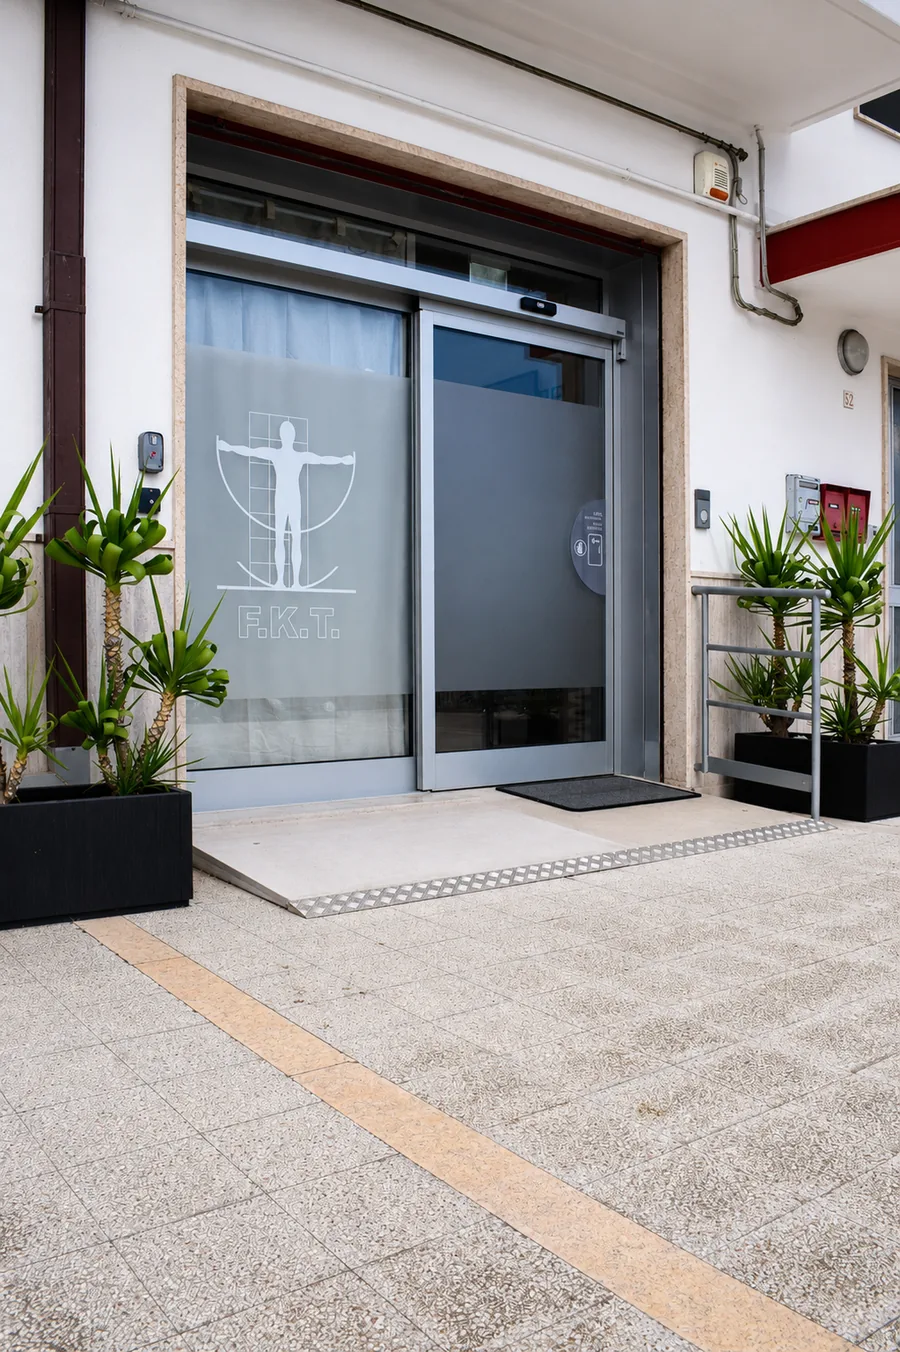
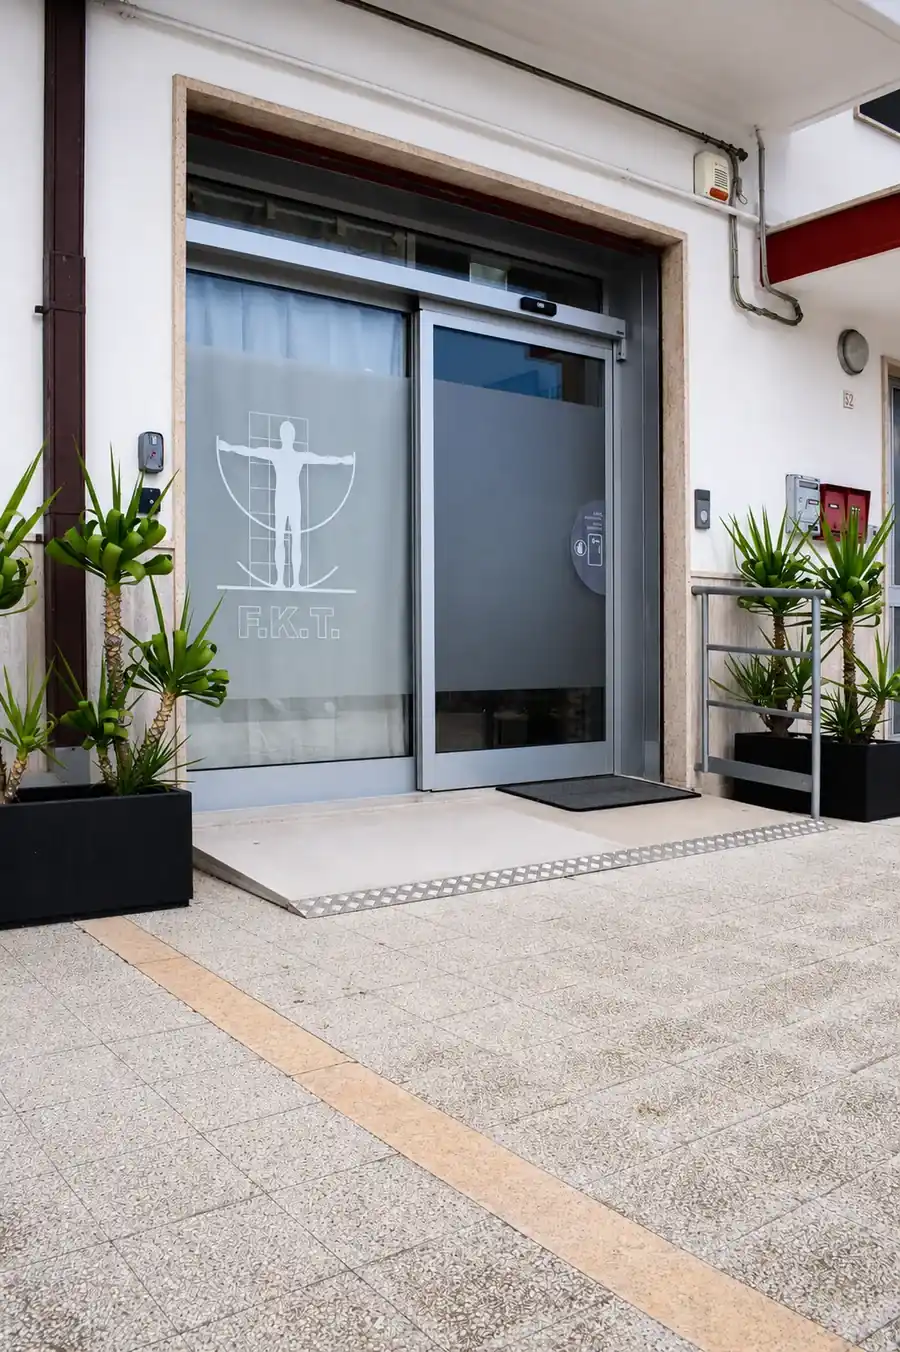
Performance: immagini ottimizzate, font non bloccanti, mappa piu reattiva
- Hero: JPEG 517KB -> WebP 31KB, srcset mobile 11KB, fetchPriority high
- Loghi convenzioni: PNG 95-556KB -> WebP ~9-27KB, lazy loading
- sede-ingresso ricompresso 212->125KB
- Font Inter/Manrope: da @import CSS (render-blocking) a link+preconnect in HTML
- Preconnect Google Maps, iframe eager, placeholder ghiaccio anti-saltellamento
- loading=lazy + decoding=async su tutte le immagini below-fold, width/height anti-CLS
- Fix: html lang=it

diff --git a/src/pages/Convenzioni.tsx b/src/pages/Convenzioni.tsx
@@ -33,7 +33,7 @@ const ACCESSO: Accesso[] = [
     titolo: "Servizio Sanitario Nazionale",
     sottotitolo: "Prestazioni convenzionate con il SSN su prescrizione medica.",
     icona: Landmark,
-    logo: "/assets/logo-ssn-trasparente.png",
+    logo: "/assets/logo-ssn-trasparente-opt.webp",
     logoAlt: "Logo del Servizio Sanitario Nazionale",
     paragrafi: [
       "Questa modalità riguarda i pazienti in possesso di una prescrizione medica per prestazioni erogabili in convenzione. Prima della prenotazione è necessario verificare che l'indicazione sia completa e compatibile con il percorso richiesto.",
@@ -54,7 +54,7 @@ const ACCESSO: Accesso[] = [
     titolo: "INAIL",
     sottotitolo: "Riabilitazione dopo un infortunio sul lavoro.",
     icona: BriefcaseMedical,
-    logo: "/assets/logo-inail-trim.png",
+    logo: "/assets/logo-inail-trim-opt.webp",
     logoAlt: "Logo INAIL",
     paragrafi: [
       "Il percorso INAIL riguarda i lavoratori che necessitano di trattamenti riabilitativi collegati a un infortunio sul lavoro. L'obiettivo è favorire il recupero funzionale e accompagnare il ritorno alle attività quotidiane e lavorative.",
@@ -138,6 +138,7 @@ export default function Convenzioni() {
           src="/assets/vitruviano-servizi-integrale.webp"
           alt=""
           aria-hidden="true"
+          decoding="async"
           className="pointer-events-none absolute right-4 top-1/2 w-[220px] -translate-y-1/2 opacity-60 sm:right-8 sm:w-[300px] lg:right-12 lg:w-[400px] lg:opacity-70"
         />
         <div className="container-fkt relative py-16 sm:py-20">
@@ -168,6 +169,7 @@ export default function Convenzioni() {
               title={c.nome}
               className="h-12 sm:h-14 w-auto max-w-[180px] object-contain opacity-80 transition hover:opacity-100"
               loading="lazy"
+              decoding="async"
             />
           ))}
         </div>
@@ -180,6 +182,8 @@ export default function Convenzioni() {
           src="/assets/vitruviano-servizi-integrale.webp"
           alt=""
           aria-hidden="true"
+          loading="lazy"
+          decoding="async"
           className="pointer-events-none absolute left-4 top-1/2 hidden w-[180px] -translate-y-1/2 opacity-30 sm:left-8 sm:block sm:w-[260px] lg:left-12 lg:w-[340px] lg:opacity-40"
         />
         <div className="container-fkt py-16 sm:py-20">
@@ -225,6 +229,7 @@ export default function Convenzioni() {
                           alt={a.logoAlt}
                           className="max-h-10 max-w-[8rem] object-contain"
                           loading="lazy"
+                          decoding="async"
                         />
                       ) : (
                         <div className="flex h-12 w-12 items-center justify-center rounded-xl bg-white shadow-sm">
@@ -292,7 +297,7 @@ export default function Convenzioni() {
                     }`}
                   >
                     {a.logo ? (
-                      <img src={a.logo} alt={a.logoAlt} className="max-h-9 max-w-[6.5rem] object-contain" loading="lazy" />
+                      <img src={a.logo} alt={a.logoAlt} className="max-h-9 max-w-[6.5rem] object-contain" loading="lazy" decoding="async" />
                     ) : (
                       <span className="flex h-11 w-11 shrink-0 items-center justify-center rounded-xl bg-white shadow-sm">
                         <Icona className="h-5 w-5 text-azzurro" />

diff --git a/src/pages/Home.tsx b/src/pages/Home.tsx
@@ -13,8 +13,14 @@ export default function Home() {
       <section className="relative overflow-hidden bg-ghiaccio">
         {/* foto trattamento: solo desktop */}
         <img
-          src="/assets/hero-trattamento-1.jpg"
+          src="/assets/hero-trattamento-1.webp"
+          srcSet="/assets/hero-trattamento-1-mobile.webp 768w, /assets/hero-trattamento-1.webp 1366w"
+          sizes="100vw"
           alt="Trattamento fisioterapico del rachide cervicale"
+          width="1366"
+          height="768"
+          fetchPriority="high"
+          decoding="async"
           className="absolute inset-0 hidden h-full w-full object-cover object-right sm:block"
         />
         {/* Overlay uniforme per leggibilità testo */}
@@ -100,6 +106,8 @@ export default function Home() {
                 <img
                   src={area.immagine}
                   alt={area.titolo}
+                  loading="lazy"
+                  decoding="async"
                   className="h-full w-full object-cover transition-transform duration-500 ease-out group-hover:scale-105"
                 />
               </div>
@@ -138,6 +146,8 @@ export default function Home() {
                 <img
                   src={c.logo}
                   alt={c.nome}
+                  loading="lazy"
+                  decoding="async"
                   className="max-h-10 max-w-[140px] object-contain"
                 />
               </div>

diff --git a/src/lib/site-data.ts b/src/lib/site-data.ts
@@ -38,14 +38,14 @@ export const NAV = [
 ] as const;
 
 export const CONVENZIONI = [
-  { nome: "SSN — Servizio Sanitario Nazionale", logo: "/assets/logo-ssn-trasparente.png" },
-  { nome: "INAIL", logo: "/assets/logo-inail-trim.png" },
-  { nome: "FASDAC", logo: "/assets/convenzioni/logo-fasdac.png" },
-  { nome: "Generali", logo: "/assets/convenzioni/logo-generali-hd.png" },
-  { nome: "Poste Welfare Servizi", logo: "/assets/convenzioni/logo-poste-hd.png" },
-  { nome: "AXA", logo: "/assets/convenzioni/logo-axa-hd.png" },
-  { nome: "MyAssistance", logo: "/assets/convenzioni/logo-myassistance-hd.png" },
-  { nome: "Helpcard", logo: "/assets/convenzioni/logo-helpcard-hd.png" },
+  { nome: "SSN — Servizio Sanitario Nazionale", logo: "/assets/logo-ssn-trasparente-opt.webp" },
+  { nome: "INAIL", logo: "/assets/logo-inail-trim-opt.webp" },
+  { nome: "FASDAC", logo: "/assets/convenzioni/logo-fasdac-opt.webp" },
+  { nome: "Generali", logo: "/assets/convenzioni/logo-generali-hd-opt.webp" },
+  { nome: "Poste Welfare Servizi", logo: "/assets/convenzioni/logo-poste-hd-opt.webp" },
+  { nome: "AXA", logo: "/assets/convenzioni/logo-axa-hd-opt.webp" },
+  { nome: "MyAssistance", logo: "/assets/convenzioni/logo-myassistance-hd-opt.webp" },
+  { nome: "Helpcard", logo: "/assets/convenzioni/logo-helpcard-hd-opt.webp" },
 ] as const;
 
 export const AREE_SERVIZI = [

diff --git a/src/components/terapie/TerapieGrid.tsx b/src/components/terapie/TerapieGrid.tsx
@@ -66,6 +66,8 @@ export function TerapieGrid({ trattamenti, immagineArea }: Props) {
               <img
                 src={t.immagine ?? immagineArea}
                 alt=""
+                loading="lazy"
+                decoding="async"
                 className="absolute inset-0 w-full h-full object-cover opacity-80 group-hover:opacity-100 transition-opacity duration-300"
               />
               <div className="absolute inset-0 bg-gradient-to-t from-black/80 via-black/30 to-transparent" />
@@ -129,6 +131,7 @@ export function TerapieGrid({ trattamenti, immagineArea }: Props) {
                   <img
                     src={trattamenti[openIndex].immagine ?? immagineArea}
                     alt={trattamenti[openIndex].titolo}
+                    decoding="async"
                     className="w-full h-full object-cover"
                   />
                   <div className="absolute inset-0 bg-gradient-to-t from-black/70 via-black/10 to-transparent" />

diff --git a/index.html b/index.html
@@ -1,10 +1,15 @@
 <!doctype html>
-<html lang="en">
+<html lang="it">
   <head>
     <meta charset="UTF-8" />
     <meta name="viewport" content="width=device-width, initial-scale=1.0" />
     <meta name="description" content="Ambulatorio di fisioterapia e rieducazione funzionale a Matera dal 1995. Percorsi personalizzati per dolore, recupero del movimento e prestazioni fisiatriche." />
     <title>FKT Matera | Fisioterapia e rieducazione funzionale</title>
+    <link rel="preconnect" href="https://fonts.googleapis.com" />
+    <link rel="preconnect" href="https://fonts.gstatic.com" crossorigin />
+    <link rel="stylesheet" href="https://fonts.googleapis.com/css2?family=Inter:wght@400;500;600;700&family=Manrope:wght@600;700;800&display=swap" />
+    <link rel="preconnect" href="https://www.google.com" />
+    <link rel="dns-prefetch" href="https://maps.gstatic.com" />
   <script type="application/ld+json">
     {
       "@context": "https://schema.org",

diff --git a/src/pages/Contatti.tsx b/src/pages/Contatti.tsx
@@ -122,17 +122,20 @@ export default function Contatti() {
             <img
               src="/assets/sede-ingresso.webp"
               alt="Ingresso della sede FKT Matera in Vico dei Peuceti 22"
+              width="1536"
+              height="1024"
+              loading="lazy"
+              decoding="async"
               className="h-full w-full object-cover"
             />
           </figure>
         </div>
 
         {/* Mappa */}
-        <div className="mt-6 overflow-hidden rounded-3xl shadow-xl ring-1 ring-border">
+        <div className="mt-6 overflow-hidden rounded-3xl shadow-xl ring-1 ring-border bg-ghiaccio">
           <iframe
             title="Mappa FKT Matera — Vico dei Peuceti 22, Matera"
             src={MAPS_EMBED}
-            loading="lazy"
             referrerPolicy="no-referrer-when-downgrade"
             className="h-[400px] w-full border-0"
           />

diff --git a/src/pages/Servizi.tsx b/src/pages/Servizi.tsx
@@ -227,6 +227,7 @@ export default function Servizi() {
           src="/assets/vitruviano-servizi-integrale.webp"
           alt=""
           aria-hidden="true"
+          decoding="async"
           className="pointer-events-none absolute -right-10 top-1/2 w-[240px] -translate-y-1/2 opacity-25 sm:w-[320px] lg:-right-8 lg:w-[480px] lg:opacity-30 xl:w-[560px]"
         />
         <div className="container-fkt relative py-16 sm:py-20">
@@ -273,6 +274,7 @@ export default function Servizi() {
                   src={area.immagine}
                   alt={area.immagineAlt}
                   loading="lazy"
+                  decoding="async"
                   className="h-64 sm:h-80 w-full object-cover"
                 />
               </figure>

diff --git a/src/pages/IlCentro.tsx b/src/pages/IlCentro.tsx
@@ -52,6 +52,9 @@ export default function IlCentro() {
             <img
               src="/assets/sede-ingresso.webp"
               alt="Ingresso della sede FKT Matera con logo sulla vetrata"
+              width="1536"
+              height="1024"
+              decoding="async"
               className="h-full w-full object-cover"
             />
           </figure>
@@ -103,6 +106,8 @@ export default function IlCentro() {
           src="/assets/sede-ingresso.webp"
           alt=""
           aria-hidden="true"
+          loading="lazy"
+          decoding="async"
           className="absolute inset-0 h-full w-full object-cover"
         />
         <div className="absolute inset-0 bg-blu/85" />

diff --git a/src/components/layout/Footer.tsx b/src/components/layout/Footer.tsx
@@ -9,7 +9,7 @@ export function Footer() {
       <div className="container-fkt pt-14 pb-8">
         <div className="flex flex-col sm:flex-row items-start sm:items-center justify-between gap-6">
           <div className="flex items-center gap-3">
-            <img src="/assets/logo-fkt-bianco.svg" alt="Logo FKT" className="h-12 w-auto" />
+            <img src="/assets/logo-fkt-bianco.svg" alt="Logo FKT" className="h-12 w-auto" loading="lazy" decoding="async" />
             <div>
               <span className="block font-bold text-xl font-[Manrope]">{SITE.nome}</span>
               <span className="block text-sm text-white/60">

diff --git a/src/pages/Articoli.tsx b/src/pages/Articoli.tsx
@@ -36,6 +36,7 @@ export default function Articoli() {
               alt="Apparecchiatura per tecarterapia INDIBA in uso presso FKT Matera"
               className="h-64 w-full object-contain p-6 transition duration-500 group-hover:scale-105 md:h-full"
               loading="lazy"
+              decoding="async"
             />
             <span className="absolute left-4 top-4 rounded-full bg-blu px-3 py-1 text-xs font-semibold uppercase tracking-wide text-white">
               In evidenza

diff --git a/src/pages/ArticoloTecarterapia.tsx b/src/pages/ArticoloTecarterapia.tsx
@@ -45,6 +45,8 @@ export default function ArticoloTecarterapia() {
           <img
             src="/assets/terapie-strumentali/tecarterapia-1.webp"
             alt="Apparecchiatura per tecarterapia in uso presso FKT Matera"
+            loading="lazy"
+            decoding="async"
             className="h-72 w-full object-contain p-6 sm:h-96"
           />
           <figcaption className="border-t border-border px-6 py-3 text-xs text-muted-foreground">

diff --git a/src/index.css b/src/index.css
@@ -1,4 +1,3 @@
-@import url("https://fonts.googleapis.com/css2?family=Inter:wght@400;500;600;700&family=Manrope:wght@600;700;800&display=swap");
 @tailwind base;
 @tailwind components;
 @tailwind utilities;
